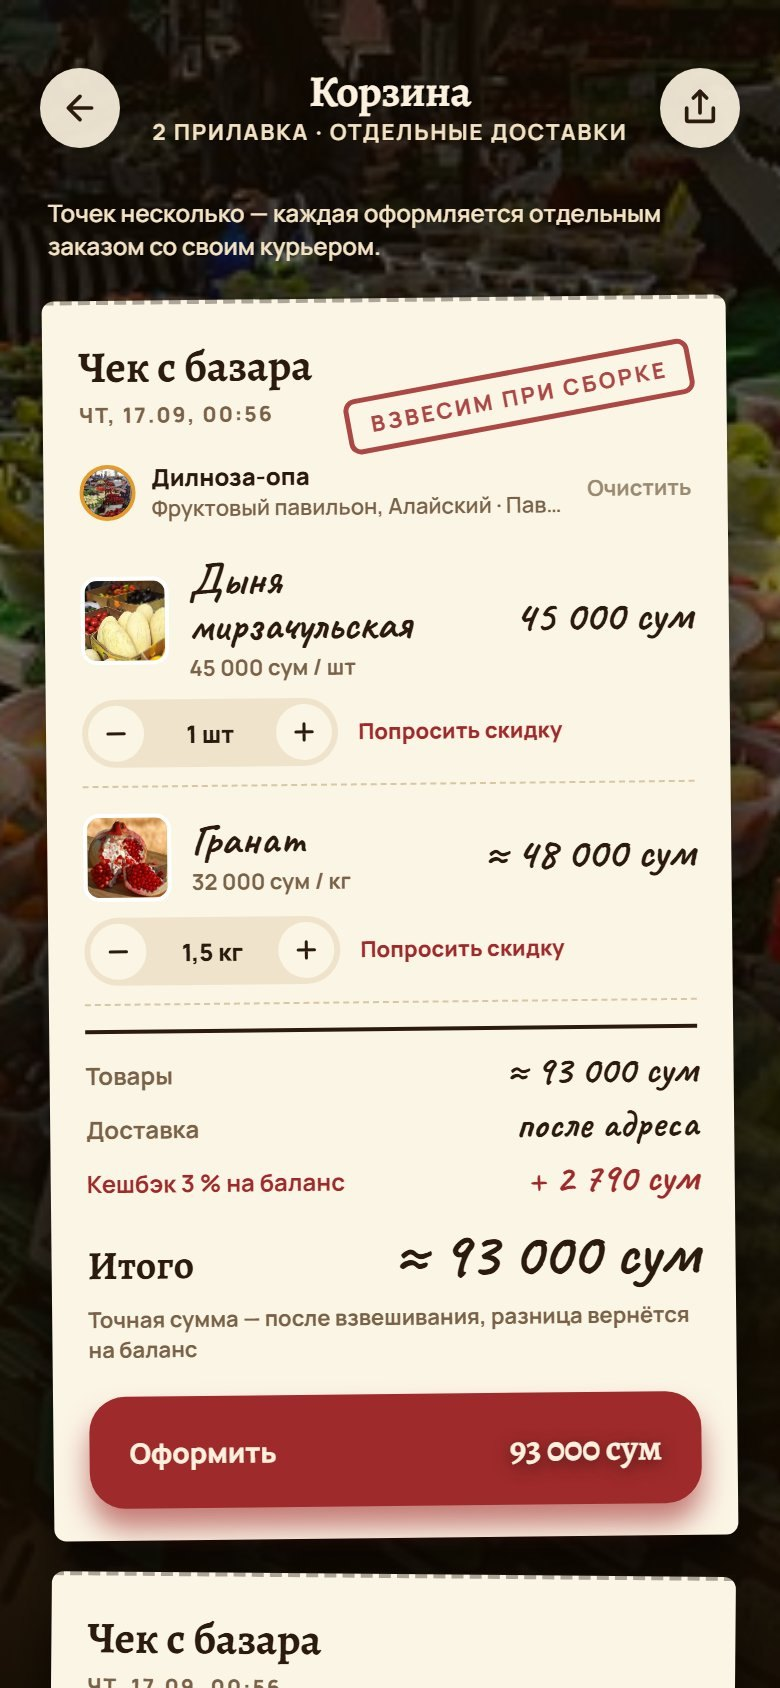
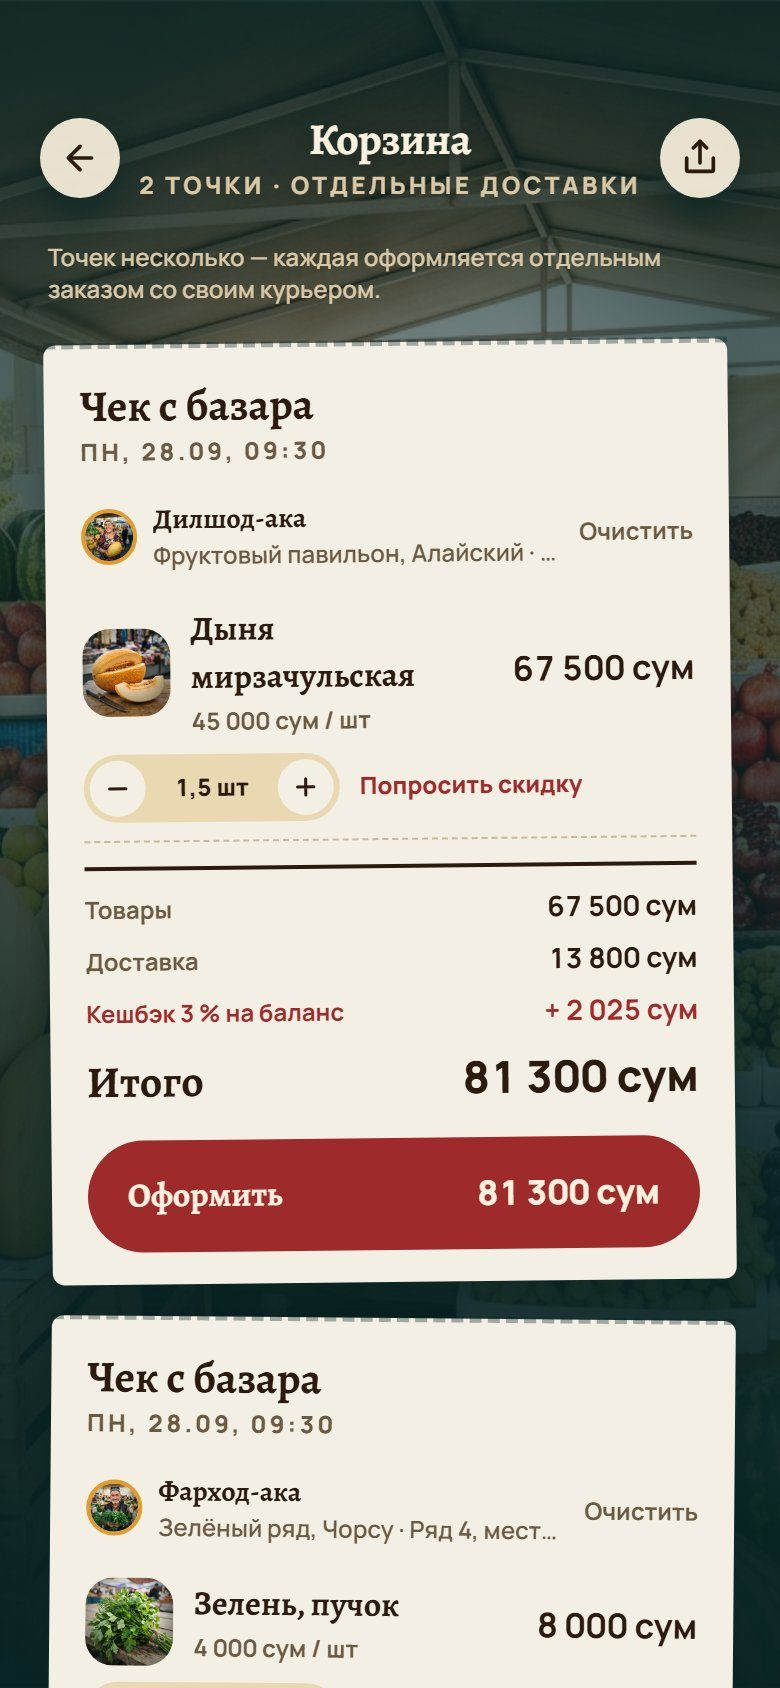
design: the hall, checked on the apps — pinned light courier, solid dead buttons, new phone on the landing
- @bazar/mobile honours an app's pinned scheme on the web too (expo-constants
  userInterfaceStyle): the courier's login in a dark browser had lapis fields
  and cream-on-cream text on its always-light paper.
- A disabled Button is a solid worn-paper pill whose reason may take two lines,
  never a half-transparent pomegranate over the content; the web's checkout
  pill follows (one rule, in the contract).
- The row: the ground rises behind the vendor's name and line, readable over
  any counter photograph. Home: room under the tag row, so the evening lamps
  hang there and not over the date.
- Landing: the phone's four screens reshot from the new app (morning light,
  iPhone safe areas), replacing the old brown ones.

diff --git a/packages/mobile/src/primitives.tsx b/packages/mobile/src/primitives.tsx
@@ -81,9 +81,15 @@ export function Button({
 }) {
   // Primary is the pomegranate pill; danger the same pill pressed deeper; secondary a paper slip.
   // Buttons lie on paper, so they lie flat — the one shadow is for what lifts off the ground.
-  const bg =
-    variant === 'primary' ? color.brand500 : variant === 'danger' ? color.brand600 : color.tile;
-  const fg = variant === 'secondary' ? color.ink : color.white;
+  // Not yet: a solid worn-paper pill, never a see-through one over the content behind it.
+  const bg = disabled
+    ? color.lineStrong
+    : variant === 'primary'
+      ? color.brand500
+      : variant === 'danger'
+        ? color.brand600
+        : color.tile;
+  const fg = disabled ? color.inkMuted : variant === 'secondary' ? color.ink : color.white;
   return (
     <Pressable
       disabled={disabled}
@@ -91,13 +97,16 @@ export function Button({
         s.button,
         press.base,
         variant === 'secondary' && s.buttonPaper,
-        { backgroundColor: bg, opacity: disabled ? 0.5 : pressed ? 0.9 : 1 },
+        { backgroundColor: bg, opacity: pressed ? 0.9 : 1 },
         pressed && press.down,
         style,
       ]}
       {...rest}
     >
-      <RNText style={[s.buttonLabel, { color: fg }]}>{label}</RNText>
+      {/* A reason on a dead button can take two lines; the pill grows instead of spilling. */}
+      <RNText style={[s.buttonLabel, s.buttonText, { color: fg }]} numberOfLines={2}>
+        {label}
+      </RNText>
       {trailing ? <RNText style={[s.buttonLabel, { color: fg }]}>{trailing}</RNText> : null}
     </Pressable>
   );
@@ -232,7 +241,8 @@ export function Line({ label, value, strong }: { label: string; value: string; s
 
 const s = StyleSheet.create({
   button: {
-    height: 56,
+    minHeight: 56,
+    paddingVertical: 8,
     borderRadius: radius.pill,
     paddingHorizontal: 20,
     flexDirection: 'row',
@@ -241,6 +251,7 @@ const s = StyleSheet.create({
     gap: 8,
   },
   buttonLabel: { fontFamily: font.heading, ...scale.lead, letterSpacing: 0 },
+  buttonText: { flexShrink: 1 },
   buttonPaper: { borderWidth: 1, borderColor: color.lineStrong },
   // A chip is a small paper pill with a kraft edge; the chosen one is stamped pomegranate.
   chip: {

diff --git a/apps/customer/src/screens/RowScreen.tsx b/apps/customer/src/screens/RowScreen.tsx
@@ -7,6 +7,7 @@
 import { isShopfront, tr, unitLabel } from '@bazar/storefront';
 import type { MapStoreDto } from '@bazar/storefront';
 import type { ProductDto } from '@bazar/types';
+import { LinearGradient } from 'expo-linear-gradient';
 import { useRouter } from 'expo-router';
 import { useMemo, useRef, useState } from 'react';
 import {
@@ -30,6 +31,7 @@ import {
   SceneButton,
   Sign,
   caps,
+  ground,
   scene,
   sceneFont,
   useSceneTop,
@@ -247,6 +249,16 @@ function StallPage({
 
   return (
     <Scene source={photo} style={{ width, height }}>
+      {/* The person reads over any counter: the ground rises behind their name and line. */}
+      <LinearGradient
+        pointerEvents="none"
+        colors={[ground(0), ground(0.7), ground(0.7), ground(0)]}
+        locations={[0, 0.25, 0.75, 1]}
+        style={[
+          s.personScrim,
+          { top: Math.round(height * 0.3), height: Math.round(height * 0.34) },
+        ]}
+      />
       <View style={[s.person, { top: Math.round(height * 0.38) }]}>
         <View style={{ flexDirection: 'row', alignItems: 'center', gap: 10 }}>
           {person ? <Photo uri={person} style={s.avatar} /> : null}
@@ -363,6 +375,7 @@ const s = StyleSheet.create({
     color: scene.creamMuted,
     fontVariant: ['tabular-nums'],
   },
+  personScrim: { position: 'absolute', left: 0, right: 0 },
   person: { position: 'absolute', left: 20, right: 80, gap: 8 },
   avatar: {
     width: 52,

diff --git a/packages/mobile/src/theme.ts b/packages/mobile/src/theme.ts
@@ -8,9 +8,14 @@
  * ponytail: a theme hook through every StyleSheet if a live switch is wanted.
  */
 import { GROUND, HALL, TONE, hallLight } from '@bazar/storefront';
+import Constants from 'expo-constants';
 import { Appearance } from 'react-native';
 
-export const isDark = Appearance.getColorScheme?.() === 'dark';
+// An app that pins its scheme (the courier: `userInterfaceStyle: light` — its paper is never dark)
+// stays pinned on the web too, where Appearance only reads the browser's prefers-color-scheme.
+const pinned = Constants.expoConfig?.userInterfaceStyle;
+export const isDark =
+  pinned === 'dark' || (pinned !== 'light' && Appearance.getColorScheme?.() === 'dark');
 
 const LIGHT = {
   ink: HALL.ink,

diff --git a/apps/web/src/components/bazar/bazar.module.css b/apps/web/src/components/bazar/bazar.module.css
@@ -1212,11 +1212,12 @@
   background: var(--pomegranate);
   border-color: var(--pomegranate);
 }
-/* Not yet: the same pill, pressed into the ground — solid, so nothing shows through it. */
+/* Not yet: a solid worn-paper pill (as the apps' Button), never a see-through one. */
 .checkout:disabled {
   cursor: default;
-  background: color-mix(in srgb, var(--pomegranate) 55%, var(--ground-deep));
-  color: var(--cream-muted);
+  background: var(--paper-edge);
+  color: var(--ink-soft);
+  box-shadow: none;
 }
 @media (max-width: 480px) {
   .fields {

diff --git a/apps/customer/src/screens/SceneHomeScreen.tsx b/apps/customer/src/screens/SceneHomeScreen.tsx
@@ -125,7 +125,8 @@ export function SceneHomeScreen() {
 
       <ScrollView
         showsVerticalScrollIndicator={false}
-        contentContainerStyle={{ paddingTop: top + 56, paddingBottom: 110 + insets.bottom }}
+        // Room under the tag row, as on the web: at night the lamps hang in it, not over the date.
+        contentContainerStyle={{ paddingTop: top + 80, paddingBottom: 110 + insets.bottom }}
       >
         <View style={s.greeting}>
           <Eyebrow>

diff --git a/docs/design-system.md b/docs/design-system.md
@@ -65,6 +65,7 @@ Web-переменные: `--dome --lapis --ochre --ochre-light --pomegranate --
 - Стекло одно: `--glass` + кромка `--glass-edge` + `--glass-blur` (приложения: `alpha(GROUND[hall].base, 0.55)`, кромка `rgba(251,241,222,0.22)`). Липкие полосы над землёй — стекло, не сплошная заливка.
 - Тень одна: `--shadow` (`0 12px 28px` цветом глубины земли) / `shadow.paper`. Всё, что лежит на бумаге, лежит плоско — кнопки внутри листа и шторки тоже. Гранатового свечения под кнопками больше нет.
 - Углы три: бумага `--radius-paper` 6 px / `radius.paper` (листы, чеки, ценники, поля, шторка над картой); фото `--radius-photo` 14 px / `radius.photo`; пилюли 999 (кнопки, чипы, стекло). Вывеска магазина — бумага по углам.
+- Неактивная кнопка — сплошная пилюля цвета кромки бумаги с текстом `inkSoft`, никогда не полупрозрачная; причина пишется на ней (до двух строк).
 - Зубчатый край — только у чека. Булавка — только у ценника. Табличка ряда — крафт без булавки, Manrope капителью.
 
 ## 5. Свет и фото одной камерой
